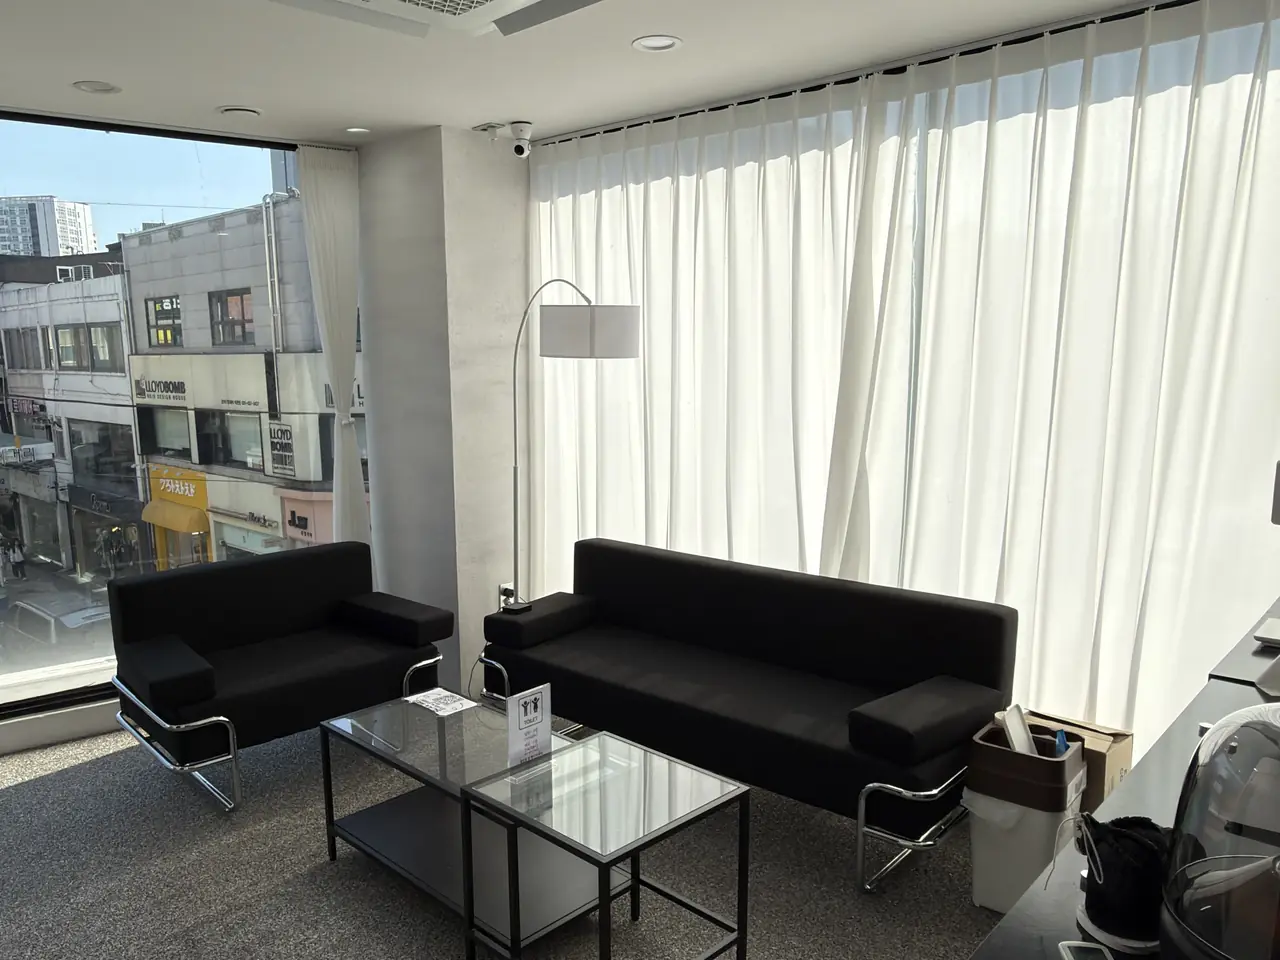
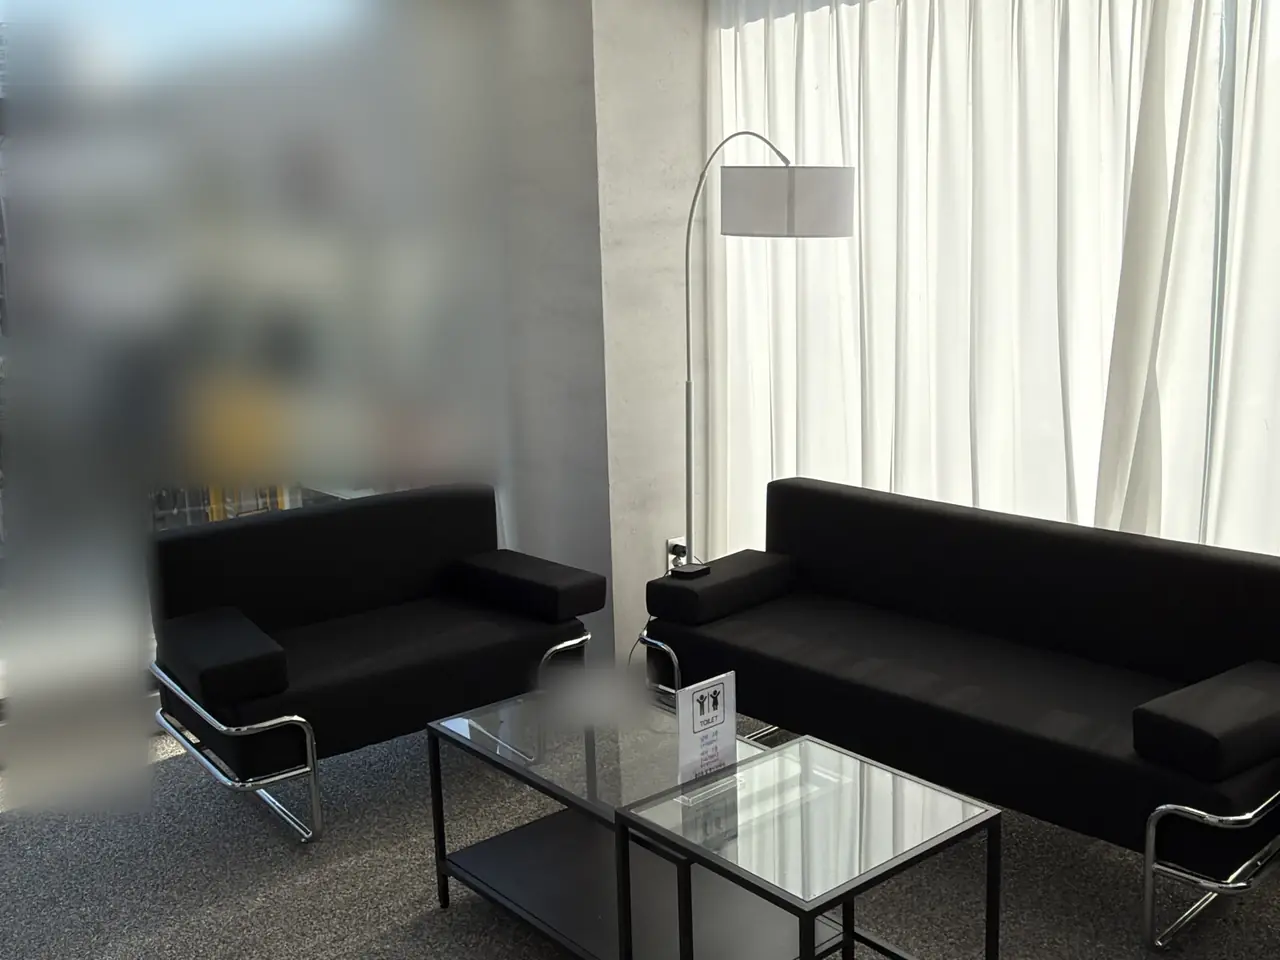
Address review: hide outside shop signs, fix stale hero docs
- R1: lounge photo re-cropped with outside window and table card blurred; share thumbnail now uses the lesson room shot (no window)
- R2: content-replacement guide no longer points at deleted studio-hero files

Claude-Session: https://claude.ai/code/session_01AUh4tApMNCXbaZE8kutmCy

diff --git a/index.html b/index.html
@@ -204,7 +204,7 @@
   <meta property="og:image" content="https://eyvocal.com/assets/images/og-image-2026-10.jpg">
   <meta property="og:image:width" content="1200">
   <meta property="og:image:height" content="630">
-  <meta property="og:image:alt" content="EY보컬스튜디오 대기실">
+  <meta property="og:image:alt" content="EY보컬스튜디오 레슨실">
   <meta name="twitter:card" content="summary_large_image">
   <meta name="twitter:title" content="EY보컬스튜디오 — 이천 1:1 보컬 레슨, 모르면 물어보세요">
   <meta name="twitter:description" content="1:1 취미 보컬 레슨으로 당신만의 목소리를 찾아드립니다. 직장인과 학생 모두 상담 가능합니다.">

diff --git a/README.md b/README.md
@@ -65,8 +65,8 @@ Live Server 확장 설치 → `index.html` 우클릭 → Open with Live Server
 | `studio/practice-room` | 08. 공간_연습실 `…연습실4번_책상·모니터·전신거울 전경_20260928_224127` | 수업 방식 · 연습실 |
 | `studio/entrance-sign` | 01. 공간_입구·현관 `…교습소 간판 정면_20261007_140308` | 오시는 길 |
 | `studio/hallway` | 09. 공간_복도·룸 표지판 `…복도 전경·ROOM 01·04 표지판_20261007_140350` | 오시는 길 |
-| `studio/lounge` | 02. 공간_대기실·라운지 `…주간 통창·소파·유리테이블 전경_20261007_135850` | 체험 예약 |
-| `og-image-2026-10.jpg` | `studio/lounge` + 로고 배지, 1200×630 | Open Graph / 공유 썸네일 |
+| `studio/lounge` | 02. 공간_대기실·라운지 `…주간 통창·소파·유리테이블 전경_20261007_135850` (창밖 간판·탁자 위 종이는 흐림 처리) | 체험 예약 |
+| `og-image-2026-10.jpg` | `studio/lesson-room` 원본 + 로고 배지, 1200×630 | Open Graph / 공유 썸네일 |
 
 가구 들이기 전(2025-12) 빈 공간 사진(`studio-hero*`)과 어두운 디자인 시절 `og-image.png`는 2026-10에 지웠습니다. 창밖 다른 가게 간판·결제 QR·가사지·수강생 얼굴이 크게 보이는 사진은 쓰지 않습니다.
 

diff --git a/docs/content-replacement-guide.md b/docs/content-replacement-guide.md
@@ -83,9 +83,10 @@
 
 ## 3. Hero 배경 사진 교체
 
+> 2026-10 기준: 첫 화면(Hero)에는 배경 사진이 없고 네이버 리뷰 캡처(`assets/images/reviews/hero-R005*`)를 씁니다. 예전 배경 사진 `studio-hero*`는 삭제했습니다. 스튜디오 실사 사진은 `assets/images/studio/`에 있으며 목록·원본은 `README.md`의 '스튜디오 사진' 표를 봅니다. 아래 스펙은 Hero 배경 사진을 다시 쓰게 될 때만 참고합니다.
+
 현재 사용 파일:
-- `assets/images/studio-hero.webp`
-- `assets/images/studio-hero.jpg`
+- 없음 (예전: `assets/images/studio-hero.webp`, `assets/images/studio-hero.jpg` — 삭제됨)
 
 권장 스펙:
 
